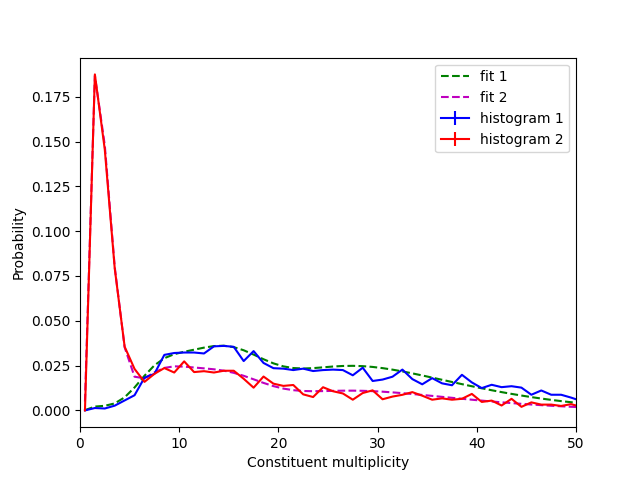
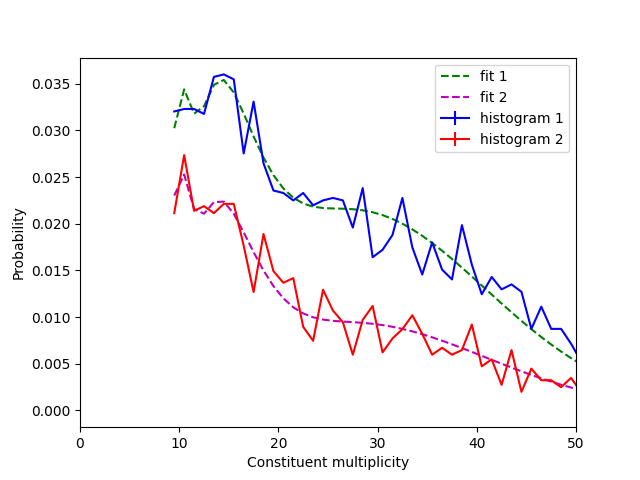
Tried on pp150-ppZjet150, pp150-PbPb150, PbPb150-PbPbWide150

diff --git a/get_topics_from_MCMC.py b/get_topics_from_MCMC.py
@@ -1,6 +1,6 @@
 #!/usr/bin/env python3
 
-# kylie edits: ./get_topics_from_MCMC.py "150_1_withpbpb_N10_pp150_1_pp150_1_zjet" -1 100 8000 7000 1000
+# kylie edits: ./get_topics_from_MCMC.py "150_1_withpbpb_N10_pp150_1_pp150_1_zjet" -1 100 8000 7000 1000 9 100 # min and max bins at end
 
 #############################################################################################
 #############################################################################################
@@ -23,7 +23,8 @@ import ipdb
 import pickle
 from pathlib import Path
 import argparse
-
+import os
+import errno
 
 ######################
 ## fitting function for the MCMC
@@ -82,7 +83,7 @@ def func_simul_lsq(theta,x1,y1,x2,y2, bnds):
 def get_simul_fits(bins, hist1, hist2, trytimes, bnds, initial_point):
     
     costnow=np.inf
-    
+    print(len(hist1), len(hist2), bins)
     # try a least squares fit many times with slightly varying initial points, and keep the best one
     for i in range(0,trytimes):
  
@@ -121,7 +122,7 @@ def get_MCMC_samples(x1, y1, y1err, x2, y2, y2err, fit, tot_weights, bnds, varia
 ######################
 ## primary function to do the MCMC and extract kappa values from the posterior
 #####################
-def do_MCMC_and_get_kappa(datum1, datum2, bins, filelabel, nwalkers=500, nsamples=20000, burn_in=100, variation_factor=1e-2, trytimes=500, nkappa=1000, bounds=[(0,25),(0,15),(0,5),(0,25),(0,15),(0,5),(0,25),(0,15),(0,5)], fit_init_point=[14,8,2,5,9,4,10,5,5,0.5,0.3,0.5,0.3]):
+def do_MCMC_and_get_kappa(datum1, datum2, bins, filelabel, system, nwalkers=500, nsamples=20000, burn_in=100, variation_factor=1e-2, trytimes=500, nkappa=1000, bounds=[(0,25),(0,15),(0,5),(0,25),(0,15),(0,5),(0,25),(0,15),(0,5)], fit_init_point=[14,8,2,5,9,4,10,5,5,0.5,0.3,0.5,0.3]):
     
     [[hist1, hist1_errs, hist1_n], totweight1] = datum1
     [[hist2, hist2_errs, hist2_n], totweight2] = datum2
@@ -147,7 +148,7 @@ def do_MCMC_and_get_kappa(datum1, datum2, bins, filelabel, nwalkers=500, nsample
     plt.legend()
     plt.xlim((0,50))
     current_dir = Path.cwd()
-    plt.savefig(current_dir / (filelabel+'_least-squares_fit.png'))
+    plt.savefig(current_dir / 'plots' / system / (filelabel+'_least-squares_fit.png'))
     
     # do the MCMC    
     print('Starting MCMC')        
@@ -162,7 +163,7 @@ def do_MCMC_and_get_kappa(datum1, datum2, bins, filelabel, nwalkers=500, nsample
     for i in range(ndim):
         axes[i].plot(range(0,nsamples),samples[:, :, i], "k", alpha=0.3)
         axes[i].axvline(x=burn_in,color='blue')   
-    plt.savefig(current_dir / (filelabel+'_MCMC_samples.png'))
+    plt.savefig(current_dir / 'plots' / system / (filelabel+'_MCMC_samples.png'))
     
     # randomly sample "nkappa" points from the posterior on which to extract kappa
     all_index_tuples = [ (i,j) for i in range(burn_in,len(samples)) for j in range(len(samples[0])) ]    
@@ -173,7 +174,7 @@ def do_MCMC_and_get_kappa(datum1, datum2, bins, filelabel, nwalkers=500, nsample
     # extract kappa from the posterior, only on points of the fit where at least one input histogram is non-zero
     or_mask = (hist1_n>0)|(hist2_n>0)
     mask_label = 'or' 
-    [kappas12, kappas21] = get_kappa(posterior_samples, datum1, datum2, histbins, or_mask, filelabel+'kappas_'+mask_label+'.png')    
+    [kappas12, kappas21] = get_kappa(posterior_samples, datum1, datum2, histbins, or_mask, filelabel+'kappas_'+mask_label+'.png', system)    
 
     del posterior_samples
     
@@ -218,7 +219,7 @@ def lnlike_individ(y, yerr, model, totweight):
 ######################
 ## function to extract kappa values given a sampling of the posterior, and a mask specifying where kappa can be extracted
 #####################      
-def get_kappa(all_samples, datum1, datum2, histbins, mask, filelabel, upsample_factor=10):
+def get_kappa(all_samples, datum1, datum2, histbins, mask, filelabel, system, upsample_factor=10):
     
     [[hist1, hist1_errs, hist1_n], _] = datum1
     [[hist2, hist2_errs, hist2_n], _] = datum2
@@ -294,7 +295,7 @@ def get_kappa(all_samples, datum1, datum2, histbins, mask, filelabel, upsample_f
     ax2.set_xlabel('Constituent multiplicity')
     ax2.legend()
     current_dir = Path.cwd()
-    plt.savefig(current_dir / filelabel)
+    plt.savefig(current_dir / 'plots' / system / filelabel)
     
     return [kappa12, kappa21]
 
@@ -335,7 +336,7 @@ def calc_fracs_distribution(kappas):
 # Functions to plot topics and fractions ############################
 #####################################################################
 
-# def plot_topics(datum1, datum2, datumQ, datumG, bins, kappas, filelabel):
+# def plot_topics(datum1, datum2, datumQ, datumG, bins, kappas, filelabel, system):
     
 #     [[hist1, hist1_errs, _], _] = datum1
 #     [[hist2, hist2_errs, _], _] = datum2
@@ -366,9 +367,9 @@ def calc_fracs_distribution(kappas):
 #     plt.tight_layout()
     
 #     current_dir = Path.cwd()
-#     fig.savefig(current_dir / (filelabel+'_topics.png'))
+#     fig.savefig(current_dir / 'plots' / system / (filelabel+'_topics.png'))
 
-def plot_topics(datum1, datum2, bins, kappas, filelabel):
+def plot_topics(datum1, datum2, bins, kappas, filelabel, system):
     
     [[hist1, hist1_errs, _], _] = datum1
     [[hist2, hist2_errs, _], _] = datum2
@@ -397,10 +398,10 @@ def plot_topics(datum1, datum2, bins, kappas, filelabel):
     plt.tight_layout()
     
     current_dir = Path.cwd()
-    fig.savefig(current_dir / (filelabel+'_topics.png'))
+    fig.savefig(current_dir / 'plots' / system / (filelabel+'_topics.png'))
     
 
-def plot_fractions(kappas, filelabel):
+def plot_fractions(kappas, filelabel, system):
     
     [f1,f2] = calc_fracs_distribution(kappas)
     
@@ -416,7 +417,7 @@ def plot_fractions(kappas, filelabel):
     plt.tight_layout()
     
     current_dir = Path.cwd()
-    fig.savefig(current_dir / (filelabel+'_fractions.png'))
+    fig.savefig(current_dir / 'plots' / system / (filelabel+'_fractions.png'))
 
 
 #####################################################################
@@ -478,6 +479,9 @@ if __name__ == '__main__':
     parser.add_argument('nsamples', type=int)
     parser.add_argument('burn_in', type=int)
     parser.add_argument('nkappa', type=int)
+    # todo make this more flexible so we can use non-int bins
+    parser.add_argument('min_bin', type=int)
+    parser.add_argument('max_bin', type=int)
     args = parser.parse_args()
         
     system = args.system
@@ -486,6 +490,8 @@ if __name__ == '__main__':
     nsamples = args.nsamples
     burn_in = args.burn_in
     nkappa = args.nkappa
+    min_bin = args.min_bin
+    max_bin = args.max_bin 
     
     if nkappa > (nsamples-burn_in)*nwalkers:
         print('number of times to try to sample kappa must be smaller than (nsamples-burn_in)*nwalkers')
@@ -512,17 +518,33 @@ if __name__ == '__main__':
     filelabel = system+'_SN,N=4_'+str(nwalkers)+','+str(nsamples)+','+str(burn_in)
     savelabel = filelabel+'_pt'+str(ptindex)
 
+    import os
+    try:
+        os.makedirs(f'./plots/{system}')
+    except OSError as e:
+        if e.errno != errno.EEXIST:
+            raise
+
     dataJJ = datum[indJJ][ptindex] if ptindex != -1 else datum[indJJ]
     dataYJ = datum[indYJ][ptindex] if ptindex != -1 else datum[indYJ]
 
     print(len(dataJJ[0][0]), len(dataYJ[0][0]))
+    # print(dataJJ)
     
-    bins = range(0,100)    
+    # quickly iterate through the data and get the bins
+    for i in range(3):
+        dataJJ[0][i] = dataJJ[0][i][min_bin:max_bin]
+        dataYJ[0][i] = dataYJ[0][i][min_bin:max_bin]
+
+    print(len(dataJJ[0][0]), len(dataYJ[0][0]))
+
+    bins = range(int(min_bin),int(max_bin))   # 0 indexed 
     kappas_now = do_MCMC_and_get_kappa(
         dataJJ,
         dataYJ,  
         bins, 
-        savelabel, 
+        savelabel,
+        system,
         nwalkers=nwalkers, 
         nsamples=nsamples, 
         burn_in=burn_in, 
@@ -537,8 +559,8 @@ if __name__ == '__main__':
     pickle.dump([kappas_now], file)
     file.close()
 
-    plot_fractions(kappas_now, filelabel)
-    # plot_topics(datum[indJJ][ptindex], datum[indYJ][ptindex], datum[indQ][ptindex], datum[indG][ptindex], bins, kappas_now, filelabel)
-    plot_topics(dataJJ, dataYJ, bins, kappas_now, filelabel)
+    plot_fractions(kappas_now, filelabel, system)
+    # plot_topics(datum[indJJ][ptindex], datum[indYJ][ptindex], datum[indQ][ptindex], datum[indG][ptindex], bins, kappas_now, filelabel, system)
+    plot_topics(dataJJ, dataYJ, bins, kappas_now, filelabel, system)
 
 # ./get_topics_from_MCMC.py 150_1_data -1 100 8000 7000 1000
